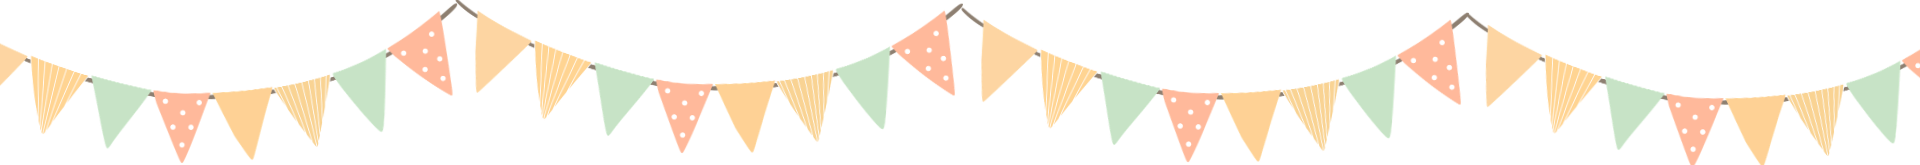
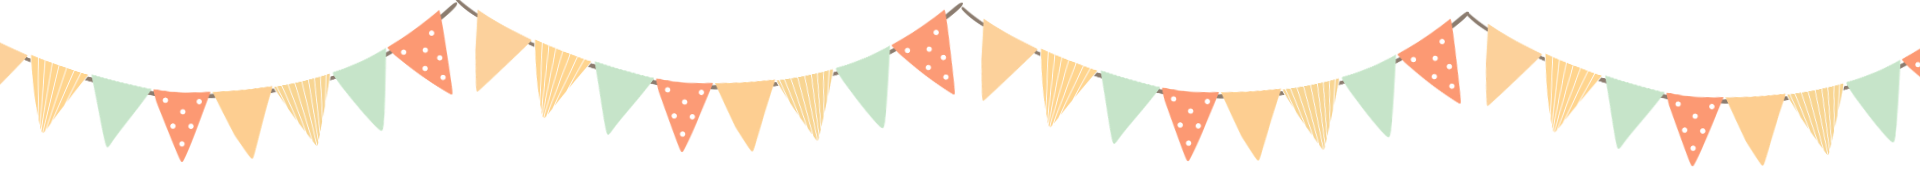
Add pattern intro color & improve intro layout
Add a default "pattern" intro color option and stop emitting introColor when the pattern is chosen so the multi-color/pattern styling can be used by default. Update form labels and localized color names accordingly. Enhance intro text rendering: add escaping, intelligent line splitting (buildIntroLines) and per-line markup to support multi-colored lines, and only apply a custom CSS variable when a color is provided. Adjust CSS/layout (banner sizing, landing text box positioning, text centering, bunting sizes, and default intro colors) and tweak sizing math for intro text fitting. Also include updated banner asset and .DS_Store binary changes.

diff --git a/index.html b/index.html
@@ -35,6 +35,9 @@
         --spin-button-aspect: 2019 / 657;
         --instructions-max-width: 580px;
         --intro-text-color: #d9a637;
+        --intro-mustard: #d9a637;
+        --intro-teal: #6faea3;
+        --intro-peach: #ef8d6d;
         --landscape-bg: #fcf1de;
         --game-paper: #fffdf7;
         --dot-mint: rgba(164, 201, 196, 0.58);
@@ -112,7 +115,7 @@
         background-image: url("img/Assets/banner.png");
         background-position: center top;
         background-repeat: no-repeat;
-        background-size: cover;
+        background-size: contain;
         pointer-events: none;
       }
       .frame-bunting {
@@ -239,13 +242,13 @@
 
       #landingTextBox {
         position: absolute;
-        left: 8%;
+        left: 5%;
         top: 21.7%;
-        width: 82.64%;
-        height: 58.6%;
+        width: 90%;
+        height: 62%;
         display: flex;
         flex-direction: column;
-        justify-content: flex-start;
+        justify-content: center;
         align-items: center;
         text-align: center;
         padding-top: 0;
@@ -260,9 +263,9 @@
         display: flex;
         flex-direction: column;
         align-items: center;
-        justify-content: flex-start;
+        justify-content: center;
         text-align: center;
-        padding: 0 7% 7%;
+        padding: 0 7%;
         box-sizing: border-box;
         max-width: 100%;
         max-height: 100%;
@@ -281,12 +284,31 @@
         text-wrap: balance;
         text-align: center;
       }
+      #landingTextBox .intro-line {
+        display: block;
+        text-transform: uppercase;
+        text-shadow:
+          0 2px 0 rgba(255, 255, 255, 0.62),
+          0 4px 7px rgba(126, 84, 44, 0.18);
+      }
+      #landingTextBox .intro-line:nth-child(3n + 1) {
+        color: var(--intro-mustard);
+      }
+      #landingTextBox .intro-line:nth-child(3n + 2) {
+        color: var(--intro-teal);
+      }
+      #landingTextBox .intro-line:nth-child(3n) {
+        color: var(--intro-peach);
+      }
+      #landingTextBox .intro-text-content.has-custom-color .intro-line {
+        color: var(--intro-text-color);
+      }
       #customMessage {
         font-family: 'SparkyStones', sans-serif;
         font-size: clamp(20px, 6vw, 70px);
         text-align: center;
         line-height: 1.2;
-        color: var(--intro-text-color);
+        color: var(--intro-mustard);
       }
       #landingTextBox.hidden {
         display: none;
@@ -689,10 +711,10 @@
 
         .viewport-bunting {
           position: fixed;
-          top: -22px;
+          top: -10px;
           left: 50%;
           width: 100vw;
-          height: min(11vw, 112px);
+          height: min(10.2vw, 140px);
           transform: translateX(-50%);
           z-index: 0;
         }
@@ -936,12 +958,11 @@
         teal: "#2f776f",
         charcoal: "#2f2a24",
       };
-      const DEFAULT_INTRO_TEXT_COLOR = INTRO_TEXT_COLORS.honey;
 
       function resolveIntroTextColor(value) {
         const colorValue = (value || "").trim().toLowerCase();
         if (!colorValue) {
-          return DEFAULT_INTRO_TEXT_COLOR;
+          return "";
         }
         if (INTRO_TEXT_COLORS[colorValue]) {
           return INTRO_TEXT_COLORS[colorValue];
@@ -949,17 +970,19 @@
         if (/^#[0-9a-f]{6}$/i.test(colorValue)) {
           return colorValue;
         }
-        return DEFAULT_INTRO_TEXT_COLOR;
+        return "";
       }
 
       const introTextColor = resolveIntroTextColor(
         MERGED_SEARCH_PARAMS.get("introColor") ||
           MERGED_SEARCH_PARAMS.get("textColor"),
       );
-      document.documentElement.style.setProperty(
-        "--intro-text-color",
-        introTextColor,
-      );
+      if (introTextColor) {
+        document.documentElement.style.setProperty(
+          "--intro-text-color",
+          introTextColor,
+        );
+      }
 
       let introTextResizeHandler = null;
       let introTextResizeObserver = null;
@@ -996,7 +1019,7 @@
           return;
         }
 
-        const widthLimit = availableWidth * 0.88;
+        const widthLimit = availableWidth * 0.86;
         const heightLimit = availableHeight * 0.92;
         const minFontSize = 8;
         const maxFontSize = Math.min(
@@ -1060,6 +1083,43 @@
         textElement.style.overflowWrap = "break-word";
       }
 
+      function escapeIntroHtml(value) {
+        return value.replace(/[&<>]/g, (char) => {
+          if (char === "&") return "&amp;";
+          if (char === "<") return "&lt;";
+          return "&gt;";
+        });
+      }
+
+      function buildIntroLines(value) {
+        const normalized = value.replace(/\\n/g, "\n").trim();
+        if (/^spin to see what baby will be!?$/i.test(normalized)) {
+          return ["SPIN", "TO SEE", "WHAT", "BABY", "WILL BE!"];
+        }
+        const explicitLines = normalized
+          .split(/\r?\n/)
+          .map((line) => line.trim())
+          .filter(Boolean);
+        if (explicitLines.length > 1) {
+          return explicitLines.map((line) => line.toUpperCase());
+        }
+        const words = normalized.toUpperCase().split(/\s+/).filter(Boolean);
+        if (words.length <= 2) {
+          return [words.join(" ")];
+        }
+        if (words.length <= 4) {
+          return [words.slice(0, 2).join(" "), words.slice(2).join(" ")];
+        }
+        const lineCount = Math.min(4, Math.ceil(words.length / 2));
+        const lines = [];
+        for (let i = 0; i < lineCount; i++) {
+          const start = Math.round((i * words.length) / lineCount);
+          const end = Math.round(((i + 1) * words.length) / lineCount);
+          lines.push(words.slice(start, end).join(" "));
+        }
+        return lines.filter(Boolean);
+      }
+
       function applyIntroTextFromURL() {
         const landingTextBox = document.getElementById("landingTextBox");
         if (!landingTextBox) {
@@ -1093,13 +1153,13 @@
           landingTextBox.innerHTML = "";
           return null;
         }
-        const withNewlines = trimmed.replace(/\\n/g, "\n");
-        const sanitized = withNewlines.replace(/[<>]/g, (char) =>
-          char === "<" ? "&lt;" : "&gt;",
-        );
-        const html = sanitized.replace(/\r?\n/g, "<br/>");
+        const lines = buildIntroLines(trimmed);
+        const html = lines
+          .map((line) => `<span class="intro-line">${escapeIntroHtml(line)}</span>`)
+          .join("");
+        const colorClass = introTextColor ? " has-custom-color" : "";
         landingTextBox.innerHTML =
-          `<div class="intro-text"><span id="customMessage" class="intro-text-content">${html}</span></div>`;
+          `<div class="intro-text"><span id="customMessage" class="intro-text-content${colorClass}">${html}</span></div>`;
         landingTextBox.classList.remove("hidden");
 
         const reFit = () => {

diff --git a/form.html b/form.html
@@ -475,10 +475,14 @@
           ></textarea>
         </div>
         <fieldset>
-          <legend id="textColorLabel">Intro Text Color</legend>
+          <legend id="textColorLabel">Advanced Intro Color</legend>
           <div class="radio-group color-grid" role="radiogroup" aria-labelledby="textColorLabel">
             <label class="radio-option color-option active">
-              <input type="radio" name="introColor" value="honey" checked />
+              <input type="radio" name="introColor" value="pattern" checked />
+              <span data-color-option="pattern">Default Pattern</span>
+            </label>
+            <label class="radio-option color-option">
+              <input type="radio" name="introColor" value="honey" />
               <span class="color-swatch" style="background: #d9a637"></span>
               <span data-color-option="honey">Honey</span>
             </label>
@@ -607,12 +611,13 @@
           introMessagePlaceholder: 'Spin to see what baby will be!',
           revealMessage: 'Reveal Message',
           revealMessagePlaceholder: "IT'S A GIRL!",
-          textColor: 'Intro Text Color',
+          textColor: 'Advanced Intro Color',
           generate: 'Generate URL',
           copy: 'Copy to Clipboard',
           boy: 'Boy',
           girl: 'Girl',
           colors: {
+            pattern: 'Default Pattern',
             honey: 'Honey',
             cocoa: 'Cocoa',
             coral: 'Coral',
@@ -640,12 +645,13 @@
           introMessagePlaceholder: '¡Gira para ver qué será el bebé!',
           revealMessage: 'Mensaje de revelación',
           revealMessagePlaceholder: '¡ES UNA NIÑA!',
-          textColor: 'Color del texto inicial',
+          textColor: 'Color avanzado del texto inicial',
           generate: 'Generar enlace',
           copy: 'Copiar',
           boy: 'Niño',
           girl: 'Niña',
           colors: {
+            pattern: 'Patrón predeterminado',
             honey: 'Miel',
             cocoa: 'Cacao',
             coral: 'Coral',
@@ -673,12 +679,13 @@
           introMessagePlaceholder: 'Tournez pour découvrir bébé !',
           revealMessage: 'Message de révélation',
           revealMessagePlaceholder: "C'EST UNE FILLE !",
-          textColor: 'Couleur du texte initial',
+          textColor: 'Couleur avancée du texte initial',
           generate: 'Générer le lien',
           copy: 'Copier',
           boy: 'Garçon',
           girl: 'Fille',
           colors: {
+            pattern: 'Motif par défaut',
             honey: 'Miel',
             cocoa: 'Cacao',
             coral: 'Corail',
@@ -706,12 +713,13 @@
           introMessagePlaceholder: 'Drehen, um zu sehen, was das Baby wird!',
           revealMessage: 'Enthüllungsnachricht',
           revealMessagePlaceholder: 'ES IST EIN MÄDCHEN!',
-          textColor: 'Intro-Textfarbe',
+          textColor: 'Erweiterte Intro-Textfarbe',
           generate: 'Link erstellen',
           copy: 'Kopieren',
           boy: 'Junge',
           girl: 'Mädchen',
           colors: {
+            pattern: 'Standardmuster',
             honey: 'Honig',
             cocoa: 'Kakao',
             coral: 'Koralle',
@@ -836,7 +844,7 @@
         const introMessageValue = introMessageField.value || '';
         const revealMessageValue = revealMessageField.value || '';
         const checkedIntroColor =
-          document.querySelector('input[name="introColor"]:checked') || { value: 'honey' };
+          document.querySelector('input[name="introColor"]:checked') || { value: 'pattern' };
         const customColorValue = customIntroColor.value || '#d9a637';
         const introColorValue =
           checkedIntroColor.value === 'custom' ? customColorValue : checkedIntroColor.value;
@@ -850,7 +858,9 @@
         if (revealMessageValue.trim()) {
           innerParams.set('revealMessage', revealMessageValue);
         }
-        innerParams.set('introColor', introColorValue);
+        if (introColorValue !== 'pattern') {
+          innerParams.set('introColor', introColorValue);
+        }
 
         const encoded = b64EncodeUnicode(innerParams.toString());
         return `https://genderslotreveal.netlify.app/?d=${encodeURIComponent(encoded)}`;